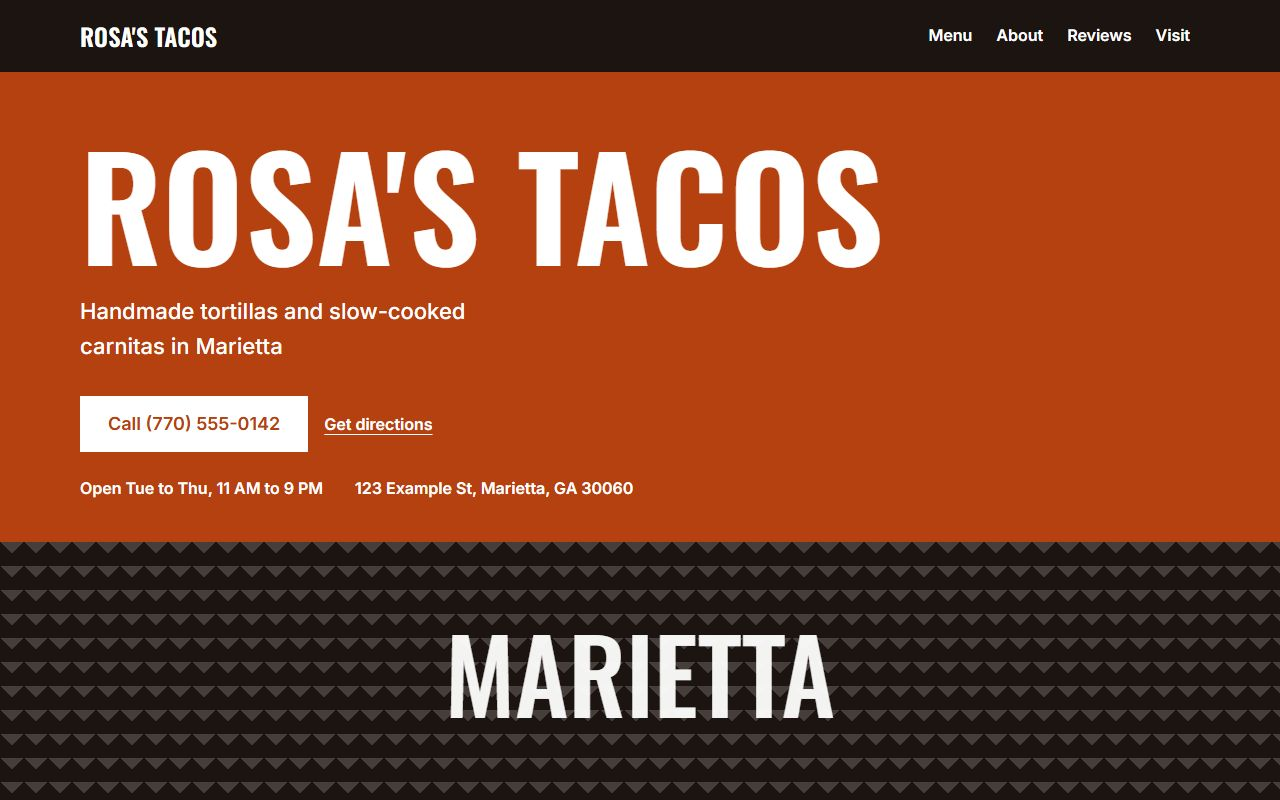
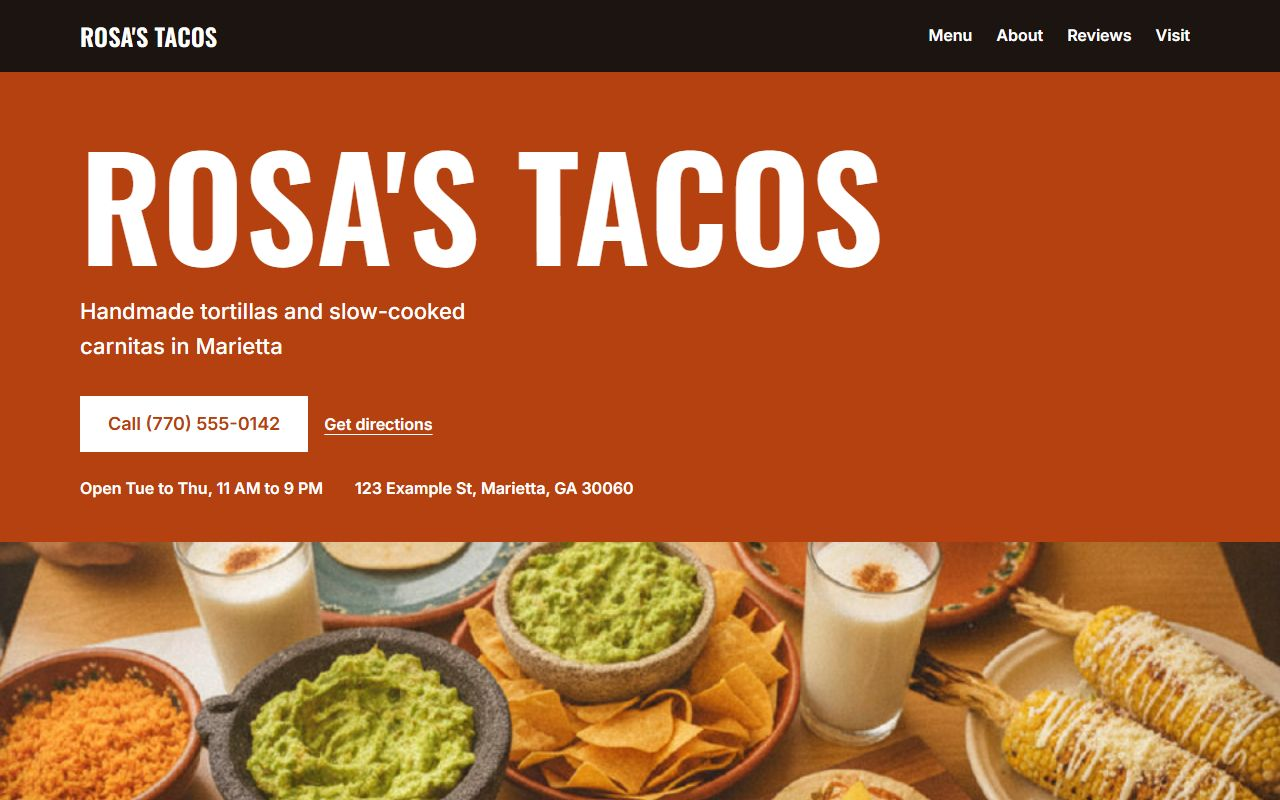
Free designs: pictures from the filled-out Rosa's Tacos demo; hero link shortened so it never wraps across lines

diff --git a/index.html b/index.html
@@ -27,7 +27,7 @@
     <link rel='stylesheet' href='https://cdn-uicons.flaticon.com/2.6.0/uicons-solid-rounded/css/uicons-solid-rounded.css'>
     <link rel='stylesheet' href='https://cdn-uicons.flaticon.com/2.6.0/uicons-regular-rounded/css/uicons-regular-rounded.css'>
     <link rel='stylesheet' href='https://cdn-uicons.flaticon.com/2.6.0/uicons-brands/css/uicons-brands.css'>
-    <link rel="stylesheet" href="style.css?v=20261122f">
+    <link rel="stylesheet" href="style.css?v=20261122g">
     <script type="application/ld+json">
     {
         "@context": "https://schema.org",
@@ -119,7 +119,7 @@
                 <div class="hero-content">
                     <h1 class=" hero-headline">Websites, apps and AI<span class="highlight hero-tagline">built for small businesses.</span></h1>
                     <p>We build websites and apps, add AI to the tools you already use, and automate the busywork. We also make <a class="hero-inline-link" href="#bobotty">Bo Botty</a>, our AI helper for small businesses.</p>
-                    <p class="hero-free">Run a local business? <a class="hero-inline-link" href="#free-website">See three free website designs built from your Google listing</a>.</p>
+                    <p class="hero-free">Run a local business? <a class="hero-inline-link" href="#free-website">See three free designs</a></p>
                     <div class="hero-cta-group">
                         <a href="#contact" class="btn btn-primary">Start a project</a>
                         <a href="#bobotty" class="btn btn-secondary">Meet Bo Botty</a>
@@ -138,9 +138,9 @@
             </div>
             <figure class="fw-shot">
                 <a class="fw-fan" href="https://sites.bobotty.com/demo-rosas-tacos-x7k2m/" aria-label="Look around the three example designs for a made-up taco shop">
-                    <img src="free-design-3.jpg?v=20261122" alt="" width="1280" height="800" loading="lazy" decoding="async">
-                    <img src="free-design-2.jpg?v=20261122" alt="" width="1280" height="800" loading="lazy" decoding="async">
-                    <img src="free-design-1.jpg?v=20261122" alt="" width="1280" height="800" loading="lazy" decoding="async">
+                    <img src="free-design-3.jpg?v=20261122b" alt="" width="1280" height="800" loading="lazy" decoding="async">
+                    <img src="free-design-2.jpg?v=20261122b" alt="" width="1280" height="800" loading="lazy" decoding="async">
+                    <img src="free-design-1.jpg?v=20261122b" alt="" width="1280" height="800" loading="lazy" decoding="async">
                 </a>
                 <figcaption>Three example designs for a made-up taco shop. <a href="https://sites.bobotty.com/demo-rosas-tacos-x7k2m/">Look around them</a></figcaption>
             </figure>

diff --git a/style.css b/style.css
@@ -2638,7 +2638,7 @@ h2.section-title { font-size: 32px; line-height: 1.2; margin-bottom: 12px; }
 .fw-fan img:nth-child(3) { left: 0; bottom: 0; }
 .fw-shot figcaption { margin-top: 12px; font-size: 14px; color: #475569; text-align: center; }
 .hero-free { margin: 0 0 20px; font-size: 16px; }
-.hero-free a { font-weight: 600; }
+.hero-free a { font-weight: 600; white-space: nowrap; }
 @media (max-width: 900px) {
     .fw-grid { grid-template-columns: minmax(0, 1fr); grid-template-areas: "head" "shot" "copy"; gap: 24px; }
     .fw-head h2 { font-size: 24px; }
